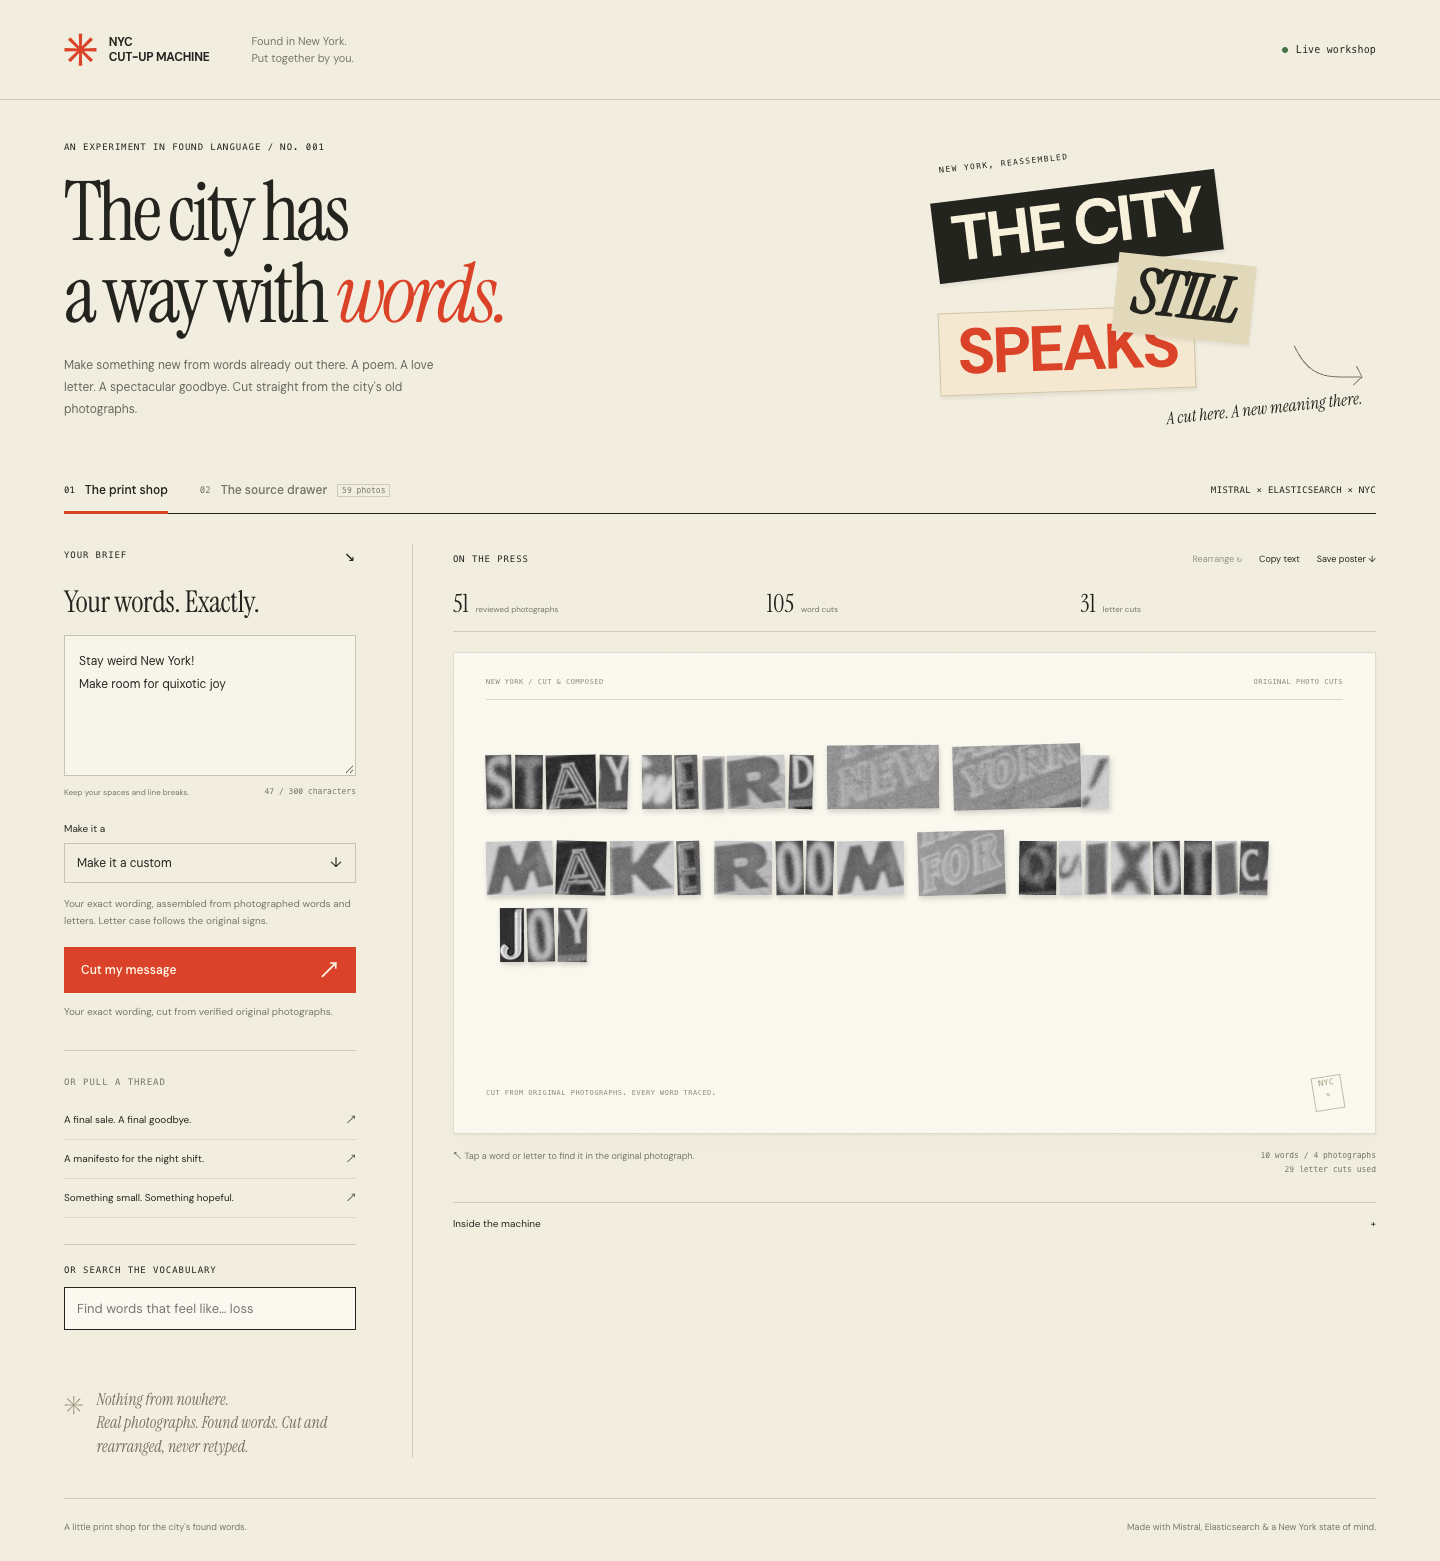
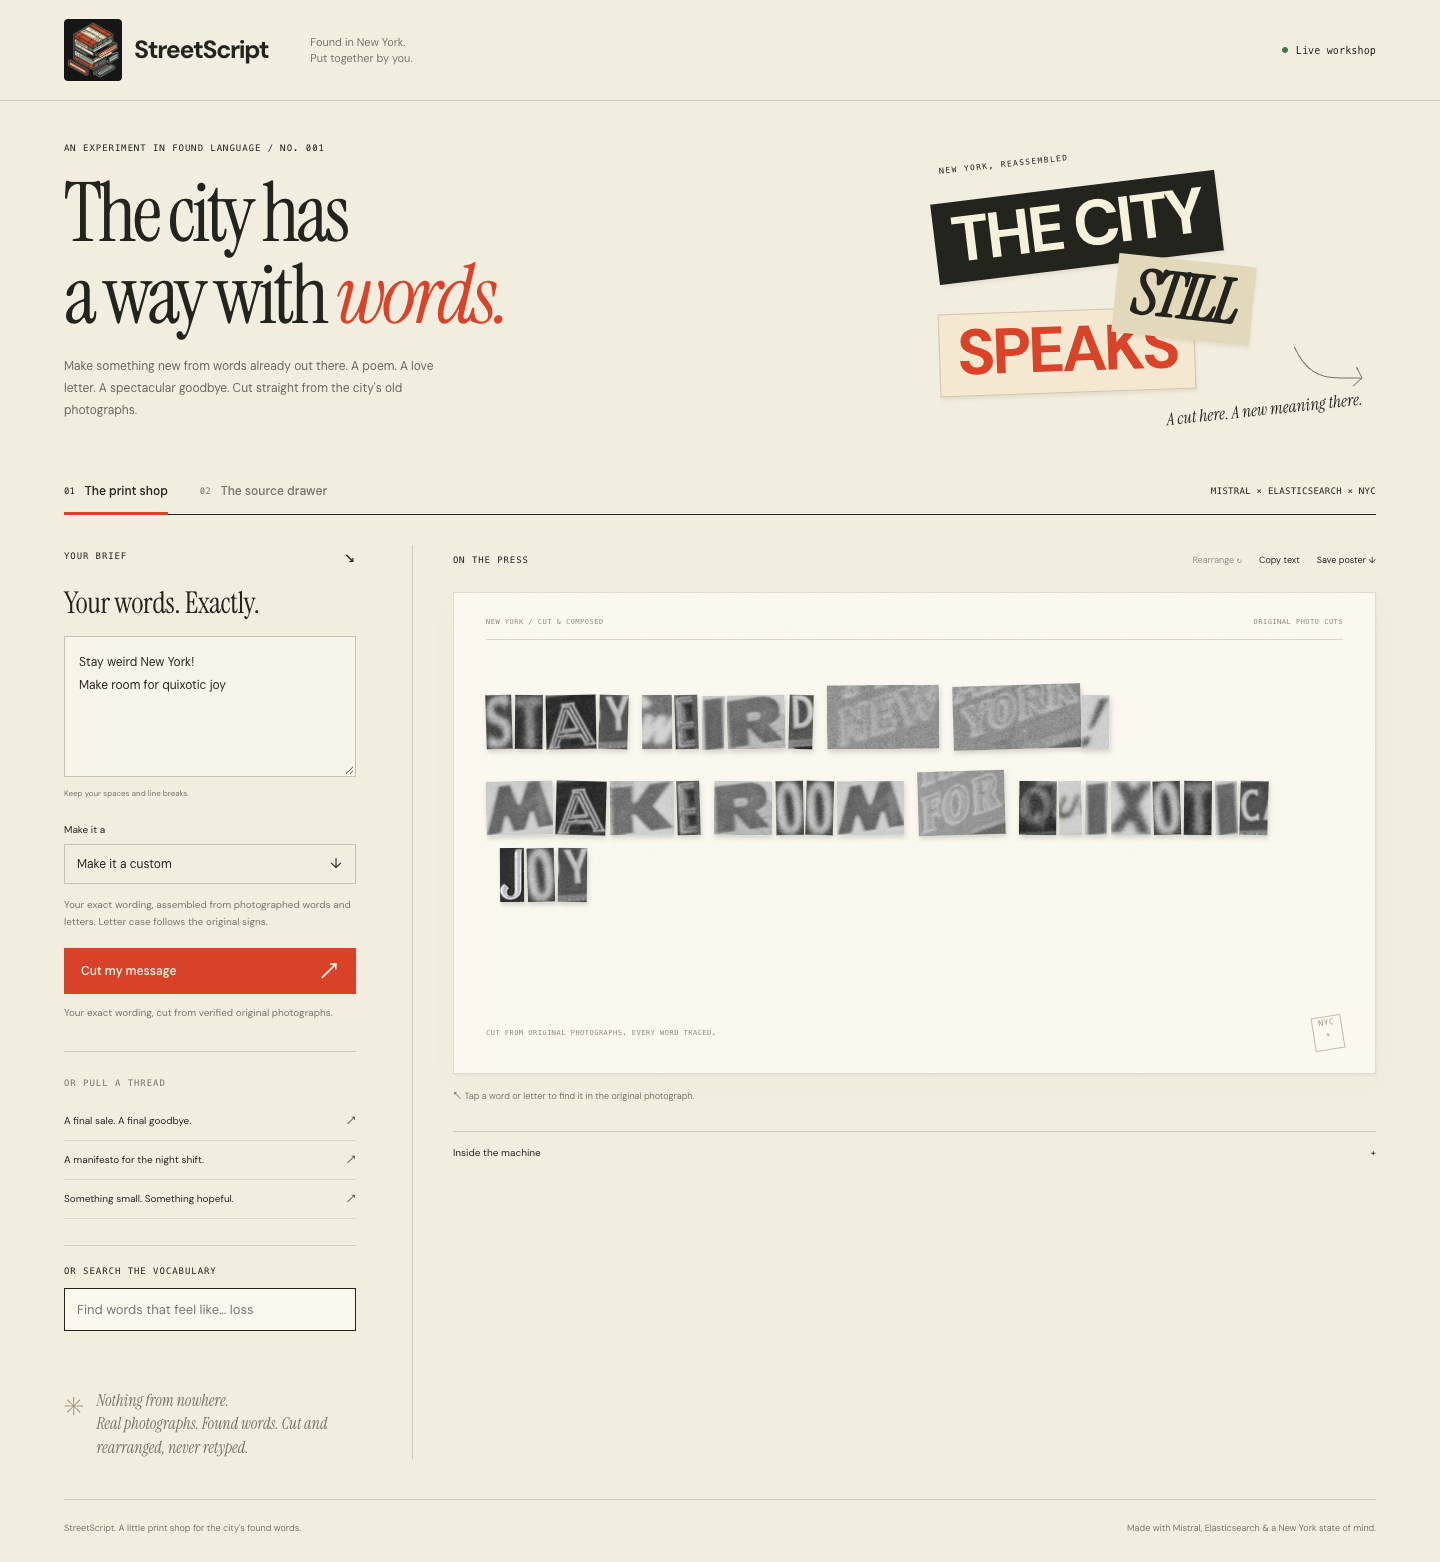
docs: refresh StreetScript branding and demo preview

diff --git a/README.md b/README.md
@@ -1,4 +1,4 @@
-# NYC Cut-Up Machine
+# StreetScript
 
 **Write something new using only words New York put on its buildings.**
 
@@ -6,7 +6,7 @@ A found-poetry print shop built for the [Elastic × Mistral NYC Hack Night](http
 
 Mistral reads and composes. Elasticsearch finds words and a reusable photographic alphabet. Application code checks every cutout.
 
-![NYC Cut-Up Machine composing from verified NYC storefront words](docs/preview.png)
+![StreetScript composing from verified NYC storefront words](docs/preview.png)
 
 ## Quick start
 
